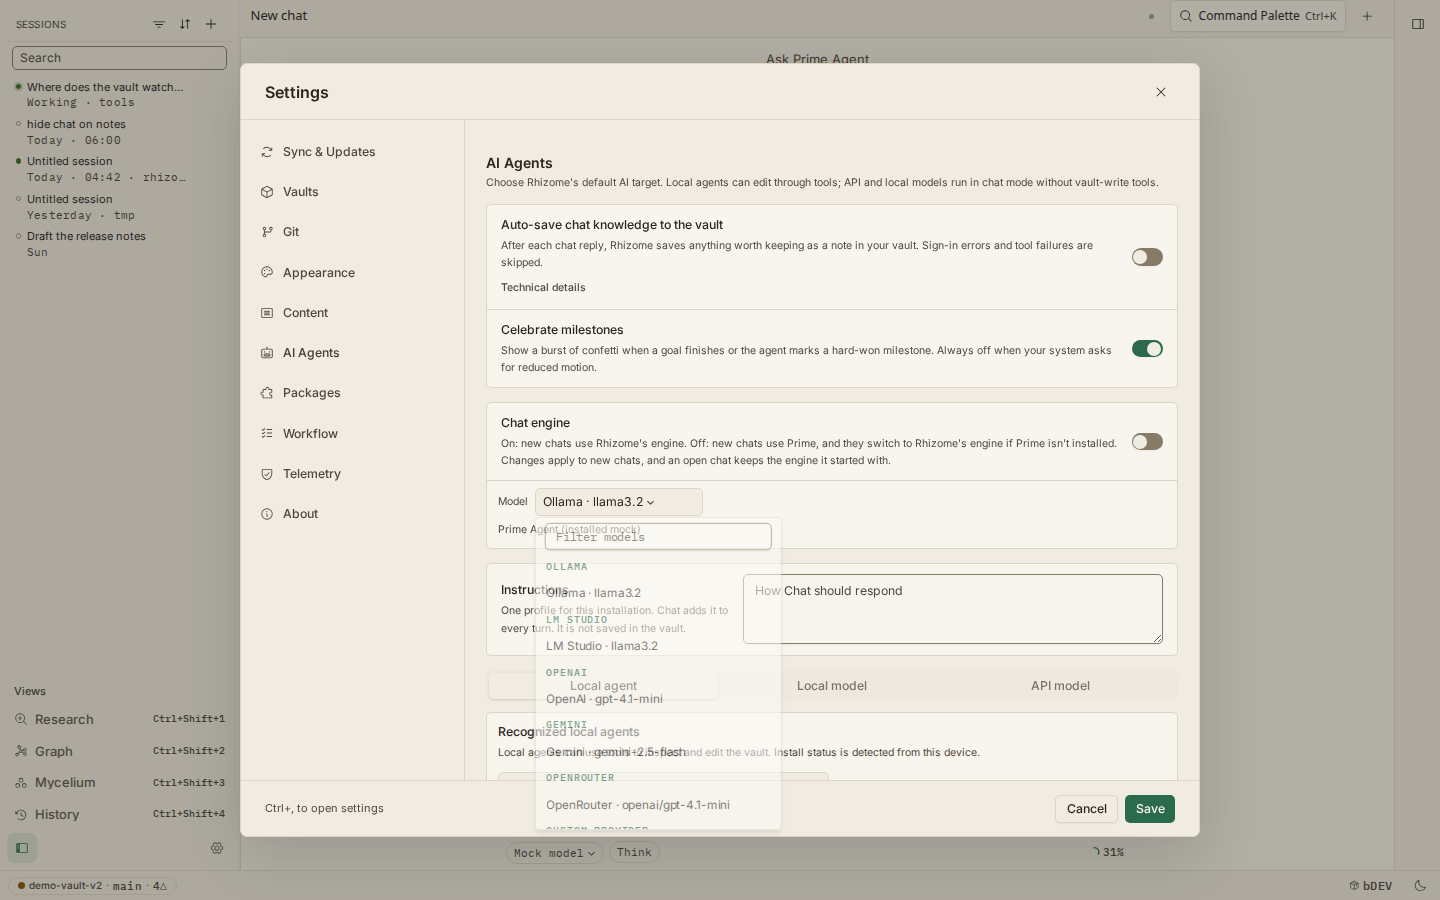
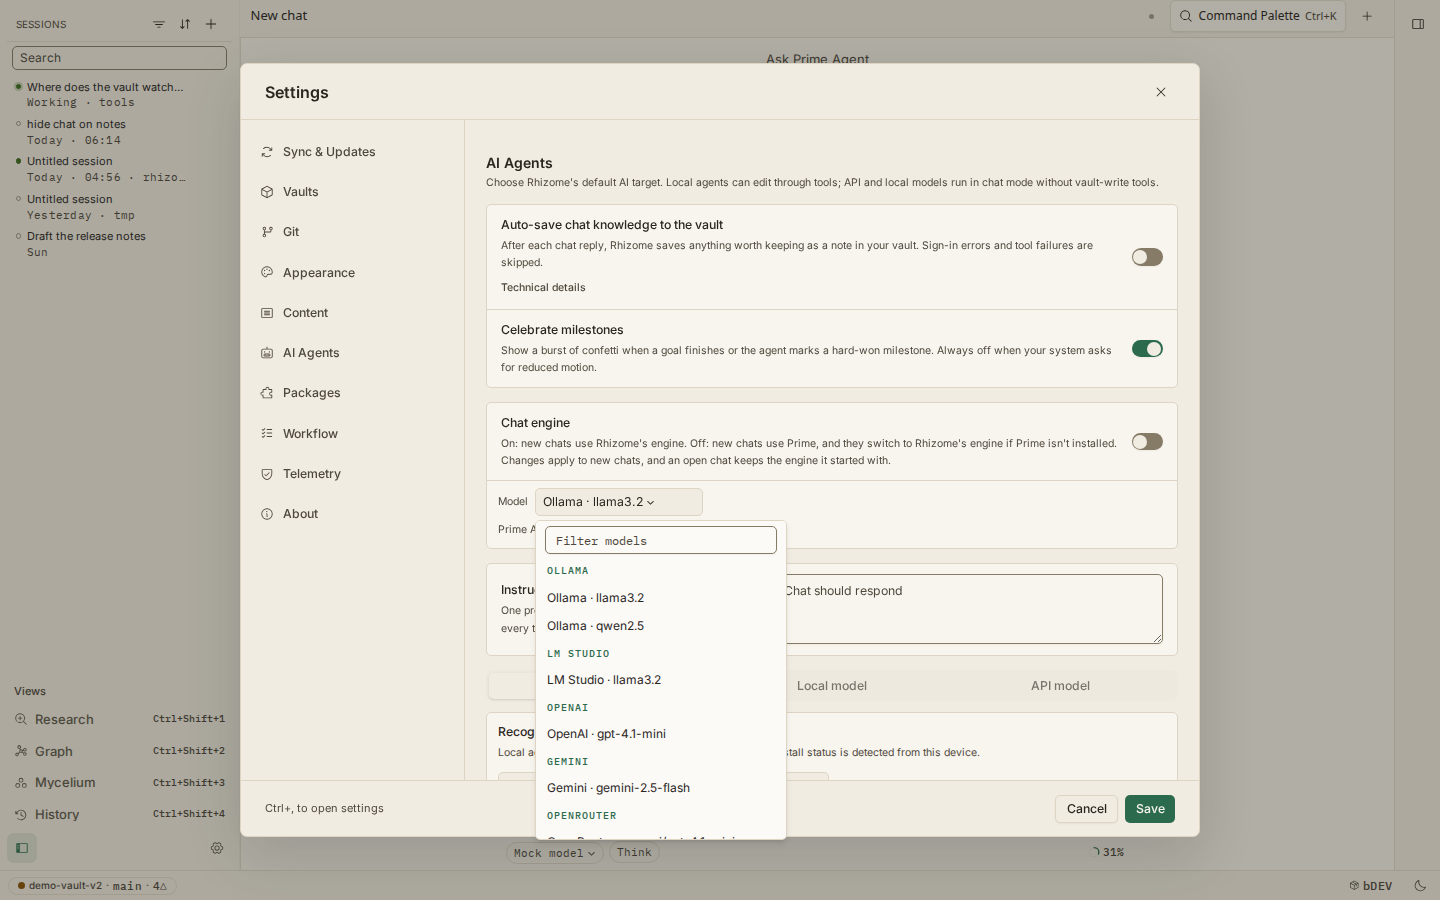
docs: capture Settings model menu hover in both themes
Theme classes and CSS vars live on html, not #root. Rest and hover
shots from the running mock app show popover background, padding, and
row highlight in Graphite dark and Earth light.

Changed region(s): [[0.375, 0.56, 0.5625, 0.9333]]

diff --git a/docs/plans/handoffs/2026-10-16-0628-cursor-grok-4-6-settings-model-menu-theme.md b/docs/plans/handoffs/2026-10-16-0628-cursor-grok-4-6-settings-model-menu-theme.md
@@ -1,0 +1,52 @@
+---
+session: 2026-10-16T06:28Z
+model: Cursor Grok 4.6
+description: >-
+  Verified Settings model menu theme: classes and CSS vars live on html,
+  not #root. Body portal stays styled. Hover screenshots in both themes.
+commits: cursor/settings-model-dropdown-f40f
+---
+
+**Origin:** Cursor Grok 4.6 · 2026-10-16 · Theme-root check after PR #175 unstyled-menu note.
+
+Did not edit `docs/HANDOFF.md`.
+
+## Theme location (live app on :5201)
+
+`applyThemeModeToDocument` / `applyAppearanceToDocument` write
+`data-theme`, `.dark`, and `data-color-theme` on
+`document.documentElement`. `#root` has none of those. CSS variables
+are on `:root` / `:root.dark` in `src/index.css`. Tailwind's dark
+variant is `@custom-variant dark (&:where(.dark, .dark *))`, so
+portaled descendants of `html.dark` stay themed.
+
+Live probe of Settings → AI Agents → Model:
+
+| | Graphite | Earth light |
+|---|---|---|
+| html | `.dark` `data-theme=dark` `--popover:#22211F` | `data-theme=light` `data-color-theme=rhizome` `--popover:#FCFAF6` |
+| #root | no theme attrs | no theme attrs |
+| menu ancestors | menu → wrapper → BODY → HTML | same |
+| menu background | `rgb(34, 33, 31)` padding `3.5px` | `rgb(252, 250, 246)` padding `3.5px` |
+| hover (OpenAI · gpt-4.1-mini) | `rgb(63, 62, 60)` | `rgb(200, 189, 168)` |
+
+A `document.body` portal is inside the themed `html` element. The
+#175-style unstyled menu does not reproduce when app CSS is loaded.
+
+An attempted `container={document.documentElement}` still landed under
+`body` (Radix `RemoveScroll` wrapper). jsdom `body.contains` stayed
+true. That change was reverted; shared `dropdown-menu.tsx` is
+unchanged.
+
+## Tests
+
+`expectMenuInThemedPortal` asserts `html` has `data-theme` / `.dark`
+(or light without `.dark`), `html.contains(menu)`, and
+`body.contains(menu)`, plus the overflow-hidden/clip walk and a click
+that selects a row. Earth-light coverage is in
+`NativeChatModelPicker.test.tsx`.
+
+## Screenshots
+
+`docs/screenshots/pr-178/` rest + hover, Graphite and Earth, from the
+running mock app (not a bare harness).
